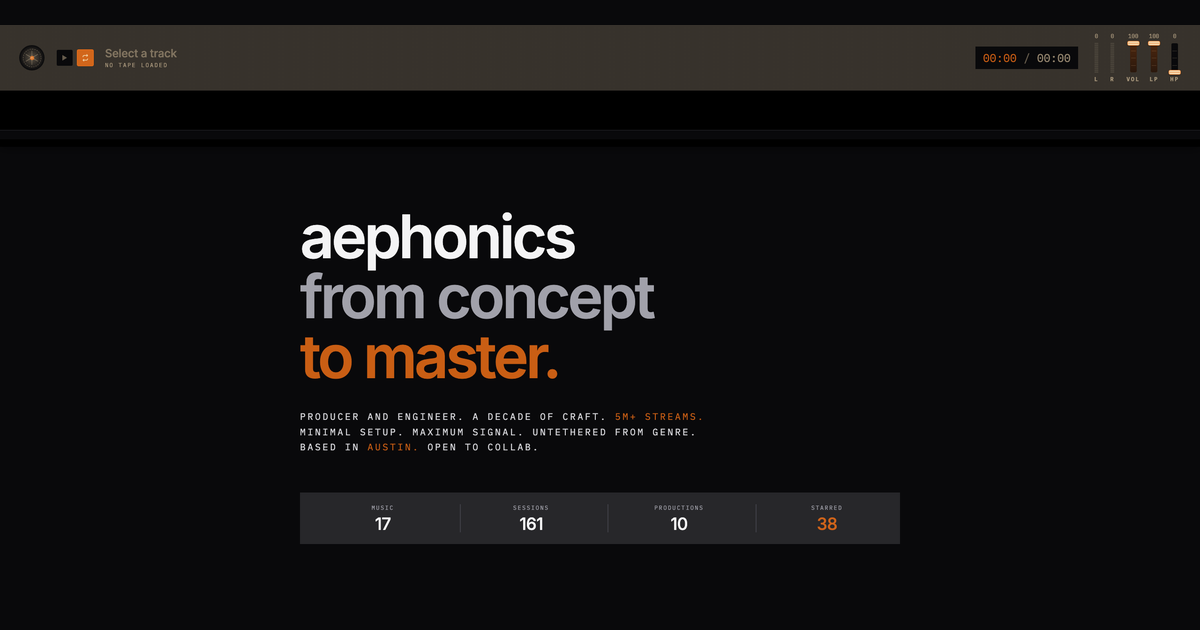
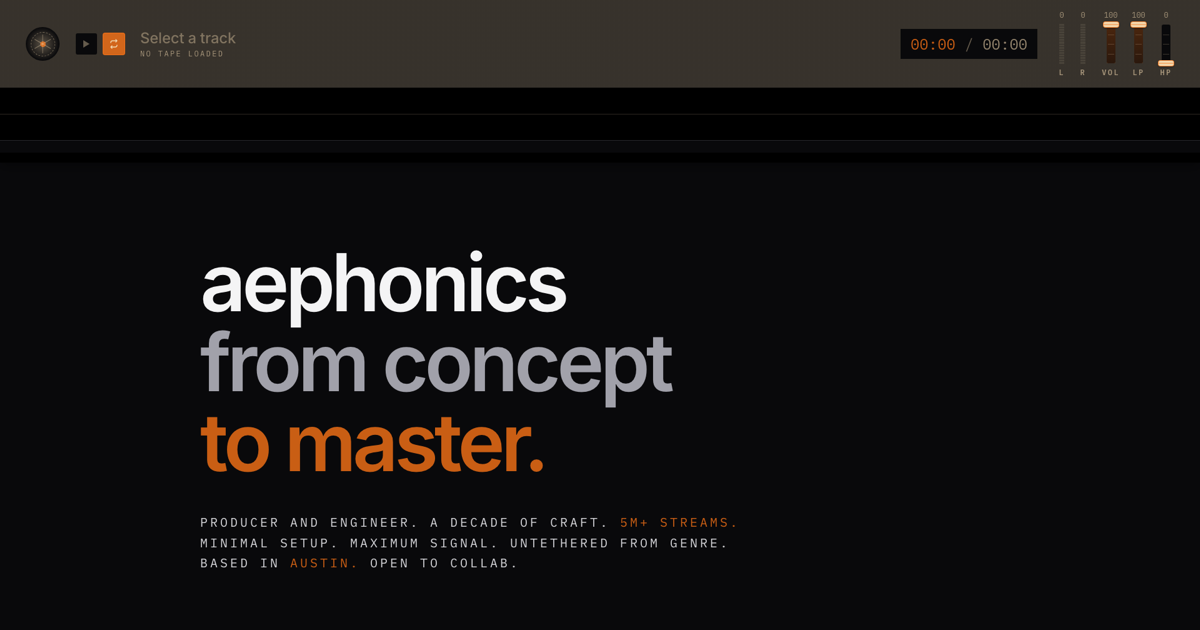
chore: maintain

Changed region(s): [[0.1542, 0.3317, 0.5858, 0.754], [0.0, 0.0, 1.0, 0.1508], [0.1542, 0.7841, 0.7708, 0.9048]]

diff --git a/astro.config.ts b/astro.config.ts
@@ -3,7 +3,7 @@ import react from '@astrojs/react';
 import robots from 'astro-robots-txt';
 import sitemap from '@astrojs/sitemap';
 import tailwind from '@tailwindcss/vite';
-import { defineConfig } from 'astro/config';
+import { defineConfig, fontProviders } from 'astro/config';
 
 export default defineConfig({
     adapter: netlify(),
@@ -13,6 +13,36 @@ export default defineConfig({
     devToolbar: {
         enabled: false,
     },
+    fonts: [
+        {
+            cssVariable: '--font-geist-sans',
+            display: 'block',
+            name: 'Geist Sans',
+            provider: fontProviders.fontsource(),
+            styles: ['normal'],
+            subsets: ['latin'],
+            weights: [400, 600],
+        },
+        {
+            cssVariable: '--font-ibm-plex-mono',
+            display: 'block',
+            fallbacks: ['Courier New', 'monospace'],
+            name: 'IBM Plex Mono',
+            provider: fontProviders.fontsource(),
+            styles: ['normal'],
+            subsets: ['latin'],
+            weights: [400, 500, 600],
+        },
+        {
+            cssVariable: '--font-inter',
+            display: 'block',
+            name: 'Inter',
+            provider: fontProviders.fontsource(),
+            styles: ['normal'],
+            subsets: ['latin'],
+            weights: [500, 600],
+        },
+    ],
     integrations: [
         react(),
         robots(),

diff --git a/src/sections/Player.tsx b/src/sections/Player.tsx
@@ -275,10 +275,10 @@ function PlayerInner({ tracks }: { tracks: Track[] }) {
                     aria-live="polite"
                 >
                     <div className={`mb-0.5 font-inter font-medium leading-tight text-2xl tracking-[-0.01em] truncate ${track ? 'text-cream' : 'text-cream-40'}`}>
-                        {track ? track.data.title : 'Select a track'}
+                        {track ? track.data.title : 'Select a track.'}
                     </div>
                     <div className="text-xs tracking-[0.2em] text-cream-60">
-                        {track ? formatDetails(track) : <span className="uppercase">No tape loaded</span>}
+                        {track ? formatDetails(track) : <span className="uppercase">No tape loaded.</span>}
                     </div>
                 </div>
                 <div

diff --git a/netlify/edge-functions/verifyPin.ts b/netlify/edge-functions/verifyPin.ts
@@ -28,13 +28,13 @@ export default async function (request: Request, context: Context) {
         if (timestamps.length >= MAX_ATTEMPTS) {
             const retryAfter = Math.ceil((timestamps[0] + WINDOW_MS - now) / 1_000);
 
-            return json({ error: 'rate_limit', ok: false }, { 'Retry-After': String(retryAfter) }, 429);
+            return json({ error: 'Rate limit exceeded.', ok: false }, { 'Retry-After': String(retryAfter) }, 429);
         }
     }
 
     const secret = Netlify.env.get('DOWNLOAD_PIN') ?? '';
 
-    if (!secret) return json({ error: 'not_configured', ok: false }, {}, 503);
+    if (!secret) return json({ error: 'Pin not configured.', ok: false }, {}, 503);
 
     const rawBody = await request.text().catch(() => '');
 

diff --git a/netlify/edge-functions/rateLimit.ts b/netlify/edge-functions/rateLimit.ts
@@ -21,7 +21,7 @@ export default async function (_request: Request, context: Context) {
     if (timestamps.length >= MAX_REQUESTS) {
         const retryAfter = Math.ceil((timestamps[0] + WINDOW_MS - now) / 1_000);
 
-        return new Response('Rate limit exceeded', {
+        return new Response('Rate limit exceeded.', {
             headers: { 'Retry-After': String(retryAfter) },
             status: 429,
         });

diff --git a/src/global.css b/src/global.css
@@ -31,9 +31,9 @@
     --color-zinc-800: #27272a;
     --color-zinc-900: #18181b;
     --color-zinc-950: #09090b;
-    --font-inter: 'Inter', system-ui, sans-serif;
-    --font-mono: 'IBM Plex Mono', ui-monospace, monospace;
-    --font-sans: 'Geist Sans', system-ui, sans-serif;
+    --font-inter: var(--font-inter);
+    --font-mono: var(--font-ibm-plex-mono);
+    --font-sans: var(--font-geist-sans);
 }
 
 a,

diff --git a/src/middleware.ts b/src/middleware.ts
@@ -12,7 +12,7 @@ export const onRequest = defineMiddleware(async (context, next) => {
 
         return response;
     } catch {
-        if (isApi) return Response.json({ error: 'Internal server error' }, { status: 500 });
+        if (isApi) return Response.json({ error: 'Internal server error.' }, { status: 500 });
 
         return context.rewrite('/500');
     }

diff --git a/src/pages/api/[...path].ts b/src/pages/api/[...path].ts
@@ -2,4 +2,4 @@ import type { APIRoute } from 'astro';
 
 export const prerender = false;
 
-export const ALL: APIRoute = () => Response.json({ error: 'Not found' }, { status: 404 });
+export const ALL: APIRoute = () => Response.json({ error: 'Not found.' }, { status: 404 });
